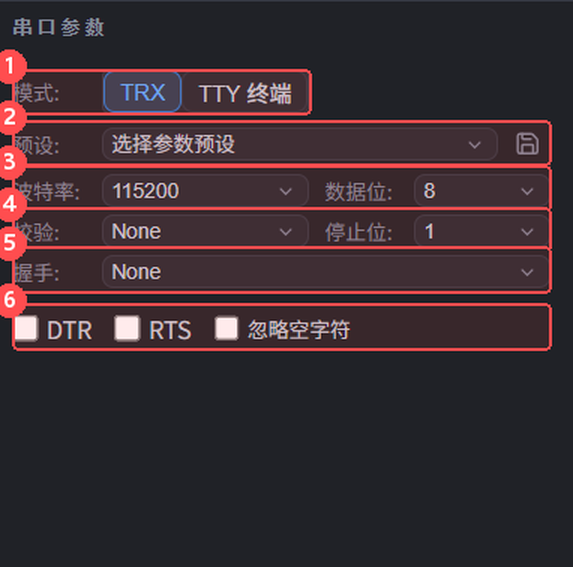
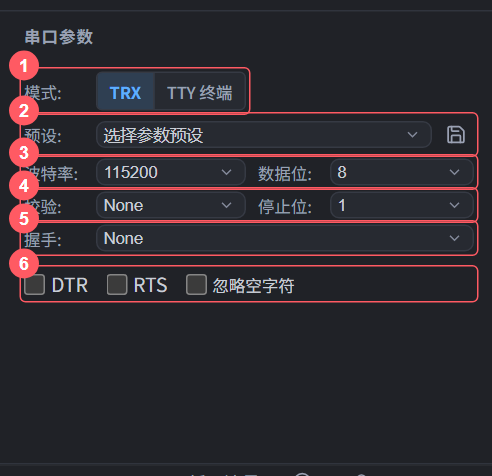
docs(userwiki): refresh current UI screenshots and guidance

Changed region(s): [[0.0, 0.0294, 0.9756, 0.6471]]

diff --git a/docs/userwiki/数据收发.md b/docs/userwiki/数据收发.md
@@ -52,7 +52,7 @@ HEX 用两个十六进制数字表示一个字节。例如 `AA BB CC` 和 `AABBC
 
 ### 命令面板（独立窗口）
 
-点击「命令面板」或「打开独立发送面板」后，先检查顶部「目标串口」和底部「发送到」。底部指示灯绿色表示已连接，灰色表示未连接。未指定固定目标时，发送会跟随主窗口当前选中的串口；如果不希望切换标签影响目标，请在面板中明确选择串口。
+点击「命令面板」或「打开独立发送面板」后，先检查顶部「目标串口」和底部「发送到」。底部指示灯绿色表示已连接，灰色表示未连接。未指定固定目标时，发送会跟随主窗口当前选中的串口；如果不希望切换标签影响目标，请在面板中明确选择串口。没有活动串口或目标未连接时不会发送数据。
 
 ![命令面板](images/quick-panel.png)
 
@@ -61,7 +61,7 @@ HEX 用两个十六进制数字表示一个字节。例如 `AA BB CC` 和 `AABBC
 **命令列表**适合发送已经保存的命令：
 
 1. 选择命令集，可用搜索框查找命令。
-2. 点击一条已保存命令立即发送，格式和行尾以该条命令为准，而不是面板顶部的选项。
+2. 点击已保存的**发送数据**步骤会立即发送，格式和行尾以该步骤为准，而不是面板顶部的选项；点击「设置本机波特率」步骤只应用本机波特率，不向设备发送数据。
 3. 点击「修改」就地编辑名称、内容、延时、顺序、STR/HEX 和行尾；通过左侧手柄拖动排序，或点击「在上方插入」「在下方插入」添加。编辑中的命令集暂不允许点击发送。
 4. 修改先进入草稿：有未保存内容时才显示「未保存的更改 / 正在保存…」和保存/放弃操作，命令集下拉框中带 `*` 表示仍有未保存内容；干净状态不显示草稿操作条。点「保存」并完成确认后，主窗口快捷发送条和新启动的循环才会使用新内容；点「放弃更改」可撤销本次草稿。切换命令集、切到文本模式再回来，草稿仍在。
 5. 搜索框有内容时不能拖动排序，需要先清空搜索。
@@ -97,6 +97,8 @@ HEX 用两个十六进制数字表示一个字节。例如 `AA BB CC` 和 `AABBC
 3. 点击「开始循环」图标启动，需提前结束时点击「停止发送」。
 
 循环固定启动时的串口、已保存命令集、顺序和循环参数，切标签或修改配置不会中途改发。多串口可分别运行，停止按钮只停止当前选中串口的循环。新版本保存后需停止并重新启动循环才会采用；拖动排序不会使当前运行重复或跳过某条命令。
+
+含「设置本机波特率」步骤的增强流程会独占目标串口；操作面板会显示 starting、running、waiting、applying params、completed、failed 或 stopped 等阶段及进度。流程独占期间，手动发送、发送文件和 TTY 键盘输入会被阻止。设备切换命令应先作为发送步骤执行，再在其「之后等待」中留出对端切换时间。
 
 > 串口临时断开时，主窗口循环会等待连接恢复，然后继续发送，不会自动取消任务。若不希望重连后继续，请切回该串口点击「停止发送」。另一种临时循环方式是命令面板的「文本模式 → 完整循环执行」，其间隔在面板顶部设置，停止也在该面板中操作。
 

diff --git a/docs/userwiki/日志记录.md b/docs/userwiki/日志记录.md
@@ -34,16 +34,16 @@
 1. 点击操作面板顶部的「导入历史日志」，不需要先打开或连接任何真实串口。
 2. 在原生文件选择器中多选日志，在导入面板确认每个文件所属轨道、分片顺序、文本/HEX 格式和记录机 UTC 偏移。不会按同名端口自动合并文件。
 3. 确认来源后导入，历史以独立的**只读回放标签**打开；不会追加到实时终端，也不触发自动回复、告警或插件实时输入。
-4. 使用回放工具条播放/暂停、调倍速、跳起点或终点；完整历史已经载入，可以直接搜索。多轨时间组共用一个时钟，保留真实长时间停顿，不再把长间隔截成 1 秒。
+4. 使用回放工具条播放/暂停、选择 0.25×、0.5×、1×、2×、4× 或 16× 倍速，跳起点或终点；完整历史已经载入，可以直接搜索。多轨时间组共用一个时钟，保留真实长时间停顿，不再把长间隔截成 1 秒；有时钟回拨的日志可先选择时段。
 5. 手动导航会暂停播放，继续需显式点击播放。要把不同设备或不同采集日期对齐，使用[时间联动](时间联动.md)设置事件基准或常量偏移。
 
-首版预算：UTF-8 文本/HEX 文本，最多 16 文件、每文件 32 MiB、总文件 64 MiB、500,000 记录及 192 MiB 解码内存。超过预算明确拒绝，不截断历史。恢复工作区时只恢复来源描述，不自动读文件或播放；需重新选择原始文件，校验内容并授权。
+当前支持 UTF-8 文本/HEX 文本，最多 16 文件、每文件 32 MiB、总文件 64 MiB、500,000 记录及 192 MiB 解码内存。超过预算明确拒绝，不截断历史。恢复工作区时只恢复来源描述，不自动读文件或播放；需重新选择原始文件，校验内容并授权。
 
 ### 哪些文件适合回放
 
 - 建议保留**完整日期时间**和 **RX/TX 方向标记**，例如 `[2026-10-30 10:20:30.123] RX 内容`。日志未带时区时，导入前必须确认记录机 UTC 偏移；不要把文件创建时间或文件名当作事件时间。
 - 不含可靠时间的记录仍保留原始顺序，时间显示 `—`，不会伪造为 1970 或当前时间。全无时间的轨道可以独立查看，但不参加真实时间联动。
-- 导入时可明确选择 HEX 文本。原始 binary 与 GBK 不在首版导入支持范围，不能从 binary 日志自动恢复帧边界。
+- 导入时可明确选择 HEX 文本。当前导入支持 UTF-8/HEX 文本；原始 binary 与 GBK 不在支持范围，不能从 binary 日志自动恢复帧边界。
 - 检测到时钟回拨时，请先选择明确时段再参与联动；不会偷偷重排文件记录。
 - TXT 导出若使用相对时间或省略时间戳，可能只能独立查看。CSV 不在当前导入格式承诺内。
 

diff --git a/docs/userwiki/规则与协议.md b/docs/userwiki/规则与协议.md
@@ -20,12 +20,13 @@
 
 ![发送命令规则页](images/settings-commands.png)
 
-- 新建命令集，为每一步填写名称、文本或 HEX 格式、内容和行尾；拖动手柄决定执行顺序，或用上下插入直接添加到目标位置。
+- 新建命令集，按步骤类型编辑：**发送数据**步骤填写名称、文本或 HEX 格式、内容和行尾；**设置本机波特率**步骤只填写目标波特率，不发送数据，也不需要内容或行尾。拖动手柄决定执行顺序，或用上下插入直接添加到目标位置。
 - 每一步都有一个「之后等待」间隔：填 100 就表示这一步做完后等 100 ms 再做下一步，界面会把它读成「等待 100 ms 后执行下一步」。**一轮里最后一步的「之后等待」不生效**——轮与轮之间用命令集的「轮间间隔」，编辑器会在那一步就地提示，不用去猜；若那个值本来就想用在轮间，点它旁边的「并入轮间间隔」即可一步搬过去。
 - 命令集上方会实时汇总预计耗时（例如「每轮约 1.2 s；100 轮共约 2 分钟」），方便核对时序。它**只统计「之后等待」**，不含发送本身与设备响应的时间。
 - 需要「发送使能命令 → 等设备切换 → 改本机波特率 → 继续测试」这类流程时，用「添加波特率步骤」插入一步只改本机波特率的动作，并把设备切换所需的等待填在它前面那条发送命令的「之后等待」里。波特率步骤只改本机，不会改变对端设备。
 - 勾选「循环」可重复发送；可设置每轮间隔。将「重复轮数」设为大于 0 时，发送指定轮数后停止；设为 0 时按「循环」开关决定发送一轮还是持续循环。
 - 保存后，编辑页、命令面板、快捷发送条和新启动循环使用同一顺序。运行中的循环固定启动快照，修改、保存、切换或删除命令集都不会中途改变它；停止重启后使用新版本。
+- 含「设置本机波特率」步骤的增强流程运行时会独占目标端口，并在操作面板显示当前阶段、等待、进度和 completed/failed/stopped 等终止状态；手动发送、文件发送和 TTY 键盘输入在独占期间会被阻止。
 - 发送时在主窗口操作面板选择命令集，再点击命令或循环按钮。也可打开[数据收发](数据收发.md)中介绍的快捷发送条或命令面板。
 
 ## 协议解析模板

diff --git a/docs/userwiki/设置.md b/docs/userwiki/设置.md
@@ -35,6 +35,7 @@
 - 在「关于」窗口中可以手动选择检查正式版或 preview 版，不受自动检查开关影响。
 - 设置页会显示「上次自动检查」时间；从未检查时显示「从未检查」。
 - 更新窗口提供「更新日志」和「查看发布页」链接。点击「立即更新」时，如还有未保存的设置或规则草稿，会先询问保存 / 放弃 / 继续编辑。下载期间窗口不能关闭；安装完成后程序会自动重启。
+- macOS 当前不提供应用内自动检查和安装入口，需要从正式版下载页手动下载安装；Windows/Linux 才使用应用内更新。
 
 > preview 检查会比较正式版和 preview 中版本号较大的版本；preview 版本后续发布为正式版时，仍会正常识别为更新。
 
@@ -86,7 +87,7 @@
 
 - 「安装目录…」和「安装 ZIP…」会把插件复制到应用配置目录；修改源目录不会热更新已安装副本。若已安装相同或更低版本，会先弹出替换确认：确认后替换代码并保留插件数据，但重置授权与网页信任；取消则保留原安装。
 - 「重载已安装代码」只重启当前已安装的副本，不重新读取来源文件，也不改变权限、网页信任或数据；插件被禁用或 manifest 有错误时不可用。
-- 插件操作立即持久化，底部「取消」不能撤销安装、卸载、启用 / 禁用、重载或权限变更。
+- 插件操作立即持久化，底部「取消」不能撤销安装、卸载、启用 / 禁用、重载或权限变更。卸载期间会显示阶段和已用时间，关闭视图、清理网页数据或删除文件可能需要等待。
 - 可信网页需独立风险确认；设置页可撤销信任并禁用，或先禁用再清除网页数据。普通授权不能替代网页信任。
 - 升级或替换安装保留插件 `data/`，但按新的 `installGeneration` 隔离网页数据，不复用旧代次；同时清除普通授权与网页信任，要求重新确认。卸载会删除私有数据和网页站点数据。插件私有数据与网络请求没有应用级大小上限，长期使用可能占用较多磁盘和流量。
 - 应用配置备份不包含插件代码、私有数据或网页数据；插件原生视图当前仅支持 Windows。

diff --git a/docs/userwiki/时间联动.md b/docs/userwiki/时间联动.md
@@ -57,7 +57,7 @@
 - 断线保留已有历史，不拖停健康成员；清屏只清本来源。范围不足、无时间、被过滤、加载或响应慢都在结果区显示。
 - 关闭标签不会断开串口或停止后端日志。
 
-首版只支持主窗口中的 TRX、主动适配的插件和回放标签。TTY、终端弹出窗和未适配插件暂不参与，不会暗中驱动隐藏原始终端。联动不保证所有视图逐行水平排齐，也不保证任意百万行、多插件组合 60fps。
+当前支持主窗口中的 TRX、主动适配的插件和回放标签。TTY、终端弹出窗和未适配插件不参与，不会暗中驱动隐藏原始终端。联动不保证所有视图逐行水平排齐，也不保证任意百万行、多插件组合 60fps；时钟不兼容的成员会显示「暂不可用」，不会被硬对齐。
 
 ## 多轨历史回放
 
@@ -69,6 +69,6 @@
 - 无可靠时间显示 `—`；全无时间的轨道只独立查看。回拨日志先选择时段。
 - 回放不会连接设备、发送 TX、触发自动回复/告警或污染实时流量。
 
-首版仅 UTF-8 文本/HEX 文本，最多 16 文件、单文件 32 MiB、总文件 64 MiB、500,000 记录、192 MiB 解码内存；超限拒绝，不静默截断。原始 binary/GBK 不在首版导入范围。
+当前回放支持 UTF-8 文本/HEX 文本，最多 16 文件、单文件 32 MiB、总文件 64 MiB、500,000 记录、192 MiB 解码内存；超限拒绝，不静默截断。原始 binary/GBK 不在导入范围。
 
 工作区恢复默认浏览/暂停，不自动连接、读取历史文件或播放。历史来源需要重新原生选择并核对文件指纹，缺失或变化会提示重新确认。详细文件与格式说明见[日志记录](日志记录.md)。

diff --git a/docs/userwiki/终端显示.md b/docs/userwiki/终端显示.md
@@ -11,7 +11,7 @@
 | **TRX** | 普通串口调试、查看日志和收发报文 | 按行显示，可筛选 TX/RX、搜索、改编码和显示格式 |
 | **TTY 终端** | 与设备命令行交互，例如 shell、`vim`、`top` | 像电脑终端一样处理光标和控制效果，不按行过滤 |
 
-TTY 模式按 UTF-8 显示字节流，不提供 TRX 的编码切换、关键词筛选和协议解析。发送时也不会再把内容在本地显示一遍，设备自己回显时不会出现重复文字。TTY 标签在同一分屏内切换不会丢内容；关闭标签、改模式或把标签拖到另一个分屏时，当前显示会话会被释放。TTY 目前不能弹出到独立窗口。
+TTY 模式按 UTF-8 显示字节流，不提供 TRX 的编码切换、关键词筛选和协议解析。发送时也不会再把内容在本地显示一遍，设备自己回显时不会出现重复文字。TTY 标签在同一分屏内切换或拖到另一个分屏都不会销毁会话；关闭标签或改模式时，当前显示会话会被释放。TTY 目前不能弹出到独立窗口。
 
 ![TTY 终端模式](images/tty.png)
 

diff --git a/docs/userwiki/串口管理.md b/docs/userwiki/串口管理.md
@@ -37,7 +37,7 @@
 
 点击「按端口号排序」会立即按自然顺序重排，例如 `COM1`、`COM2`、`COM12`。这是一次性排序，不是会一直生效的排序开关；之后仍可拖动端口调整顺序，下一次点击排序才会再次按端口号重排。
 
-默认使用「按添加顺序排序」，菜单中该项会高亮。Windows 上沿用系统串口注册表的枚举顺序，与 SuperCom 的默认逻辑一致；这里的“添加顺序”不是软件记录的插入时间，也不保证按 COM 编号递增。刷新时跟随当前枚举顺序。
+默认使用「按添加顺序排序」，菜单中该项会高亮。这里的“添加顺序”跟随当前系统枚举顺序，不是软件记录的插入时间，也不保证按 COM 编号递增。刷新时继续使用当前枚举顺序。
 
 手动拖拽或按端口号排序后，刷新会保留已有排列，新端口追加到末尾。再次点击「按添加顺序排序」立即恢复系统枚举顺序，并继续跟随后续刷新。排序选择仅影响当前会话，重启后默认回到添加顺序。
 

diff --git a/docs/userwiki/快速入门.md b/docs/userwiki/快速入门.md
@@ -26,7 +26,7 @@
 
 1. 在下方「发送命令」输入框输入设备能识别的命令，例如设备手册里的查询指令。
 2. 选择设备要求的行尾：**无**、**CR (`\r`)**、**LF (`\n`)** 或 **CRLF (`\r\n`)**。有的设备必须收到换行才会回应。
-3. 点击「发送」或按 `Enter`（默认设置）。要输入换行，用 `Shift+Enter`；也可以在设置中改成 `Enter` 只插入换行。
+3. 点击「发送」或按 `Enter`（默认设置）。要输入换行，用 `Shift+Enter` 或 `Ctrl+Enter`（macOS 为 `Cmd+Enter`）；也可以在设置中改成 `Enter` 只插入换行。
 
 要直接发送字节，可切到 **HEX**，输入如 `AA BB CC`。HEX 必须是完整的两位一组的字节；写错或少半位不会发送。详见 [数据收发](数据收发.md)。
 
